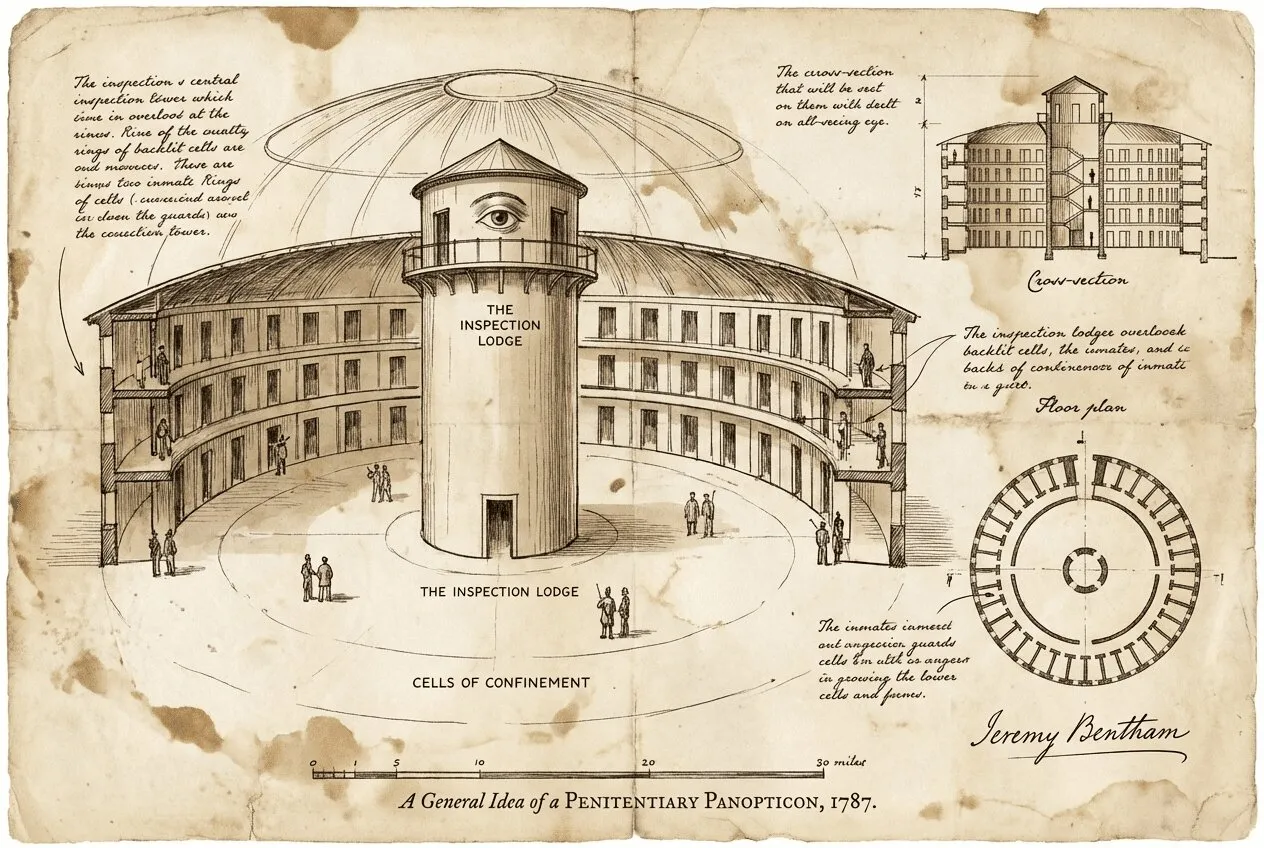
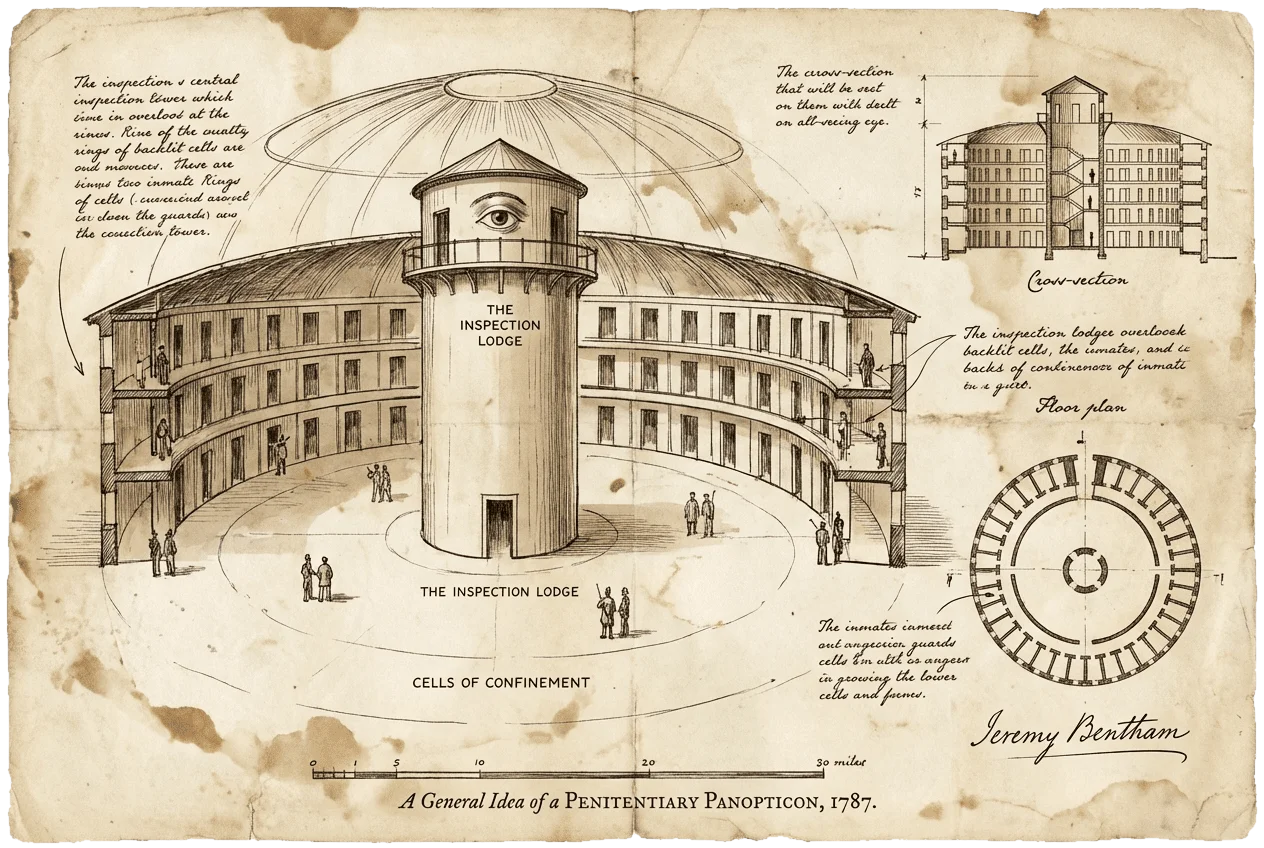
fix(blog): make Privacy Implications cover background transparent

diff --git a/collections/bitcoin/_posts/2026-08-14-privacy-implications-of-the-coldcard-catastrophe.md b/collections/bitcoin/_posts/2026-08-14-privacy-implications-of-the-coldcard-catastrophe.md
@@ -5,7 +5,7 @@ subtitle: "Everything will be linked. All accounts will be identified."
 description: "Two weeks of mayhem, and it isn't even over yet."
 date: 2026-08-14
 blocktime: 962437
-image: "/assets/images/brutal.jpg"
+image: "/assets/images/brutal.png"
 redirect_from: "/implications"
 author: Gigi
 category: bitcoin
